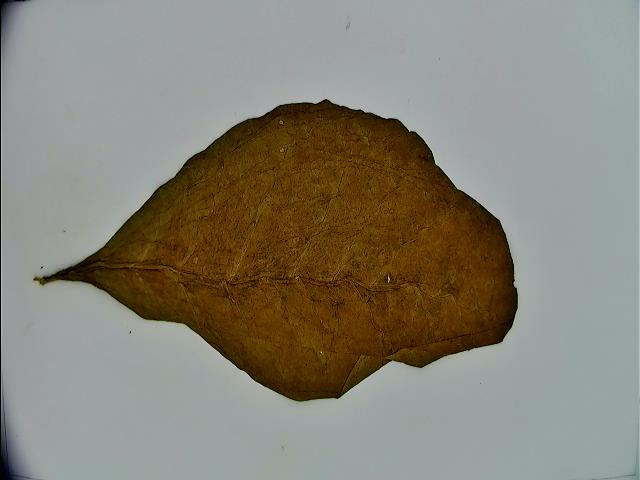
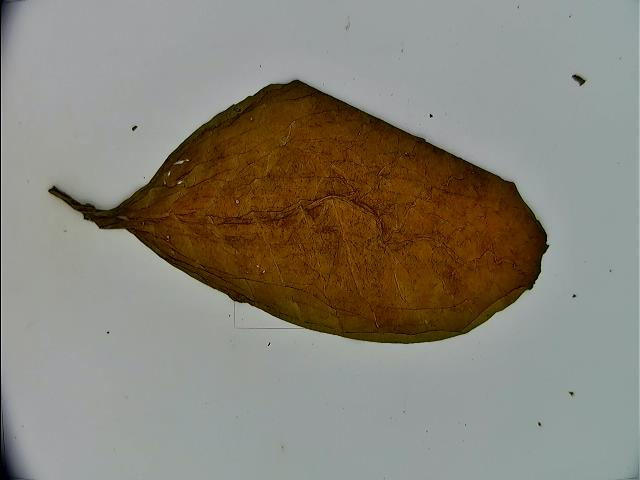
Feat: Minyak

diff --git a/main.py b/main.py
@@ -126,7 +126,7 @@ class WebcamApp:
             print("No image to save!")
 
 
-    def process_image(self, path, contrast_factor=1.0):
+    def process_image(self, path, contrast_factor=2.3):
         if os.path.exists(path):
             # Membaca gambar dari path yang diberikan menggunakan OpenCV
             image = cv2.imread(path)
@@ -136,19 +136,19 @@ class WebcamApp:
                 return
 
             # Simpan gambar asli
-            cv2.imwrite("Original_Image.png", image)
+            cv2.imwrite("1 Original_Image.png", image)
             print("Gambar berhasil dibaca dan disimpan sebagai 'Original_Image.png'.")
 
             # Penyesuaian kontras
             adjusted_image = self.adjust_contrast(image, contrast_factor)
             
             # Simpan hasil gambar dengan kontras yang disesuaikan
-            cv2.imwrite("Adjusted_Contrast_Image.png", adjusted_image)
+            cv2.imwrite("2 Adjusted_Contrast_Image.png", adjusted_image)
             print("Gambar dengan kontras disesuaikan disimpan sebagai 'Adjusted_Contrast_Image.png'")
 
             # Konversi gambar dari BGR ke HSV
                  # Konversi gambar ke Grayscale
-            img_gray = cv2.cvtColor(image, cv2.COLOR_RGBA2GRAY)
+            img_gray = cv2.cvtColor(adjusted_image, cv2.COLOR_RGBA2GRAY)
 
             # Segmentasi Citra Menggunakan Thresholding
             _, thresh = cv2.threshold(img_gray, 128, 255, cv2.THRESH_BINARY_INV)
@@ -168,7 +168,7 @@ class WebcamApp:
                 kualitas = self.determine_leaf_quality(panjang)
 
                 # Deteksi kerusakan dan minyak 
-                cropped_image = image[y:y+h, x:x+w]
+                cropped_image = adjusted_image[y:y+h, x:x+w]
 
                 # Buat masker untuk citra yang dipotong
                 mask = np.zeros((h, w), dtype=np.uint8)
@@ -180,7 +180,7 @@ class WebcamApp:
                 cv2.drawContours(mask, [adjusted_contour], -1, 255, thickness=cv2.FILLED)
                 # Segmentasikan objek dengan masker
                 segmented_image = cv2.bitwise_and(cropped_image, cropped_image, mask=mask)
-                cv2.imwrite('2 Image Segmented.png', segmented_image)
+                cv2.imwrite('3 Image Segmented.png', segmented_image)
 
                 # Temukan kontur pada gambar masker
                 contours, _ = cv2.findContours(mask, cv2.RETR_EXTERNAL, cv2.CHAIN_APPROX_SIMPLE)
@@ -212,36 +212,36 @@ class WebcamApp:
                 result_with_inner_contour = cv2.bitwise_and(cropped_image, cropped_image, mask=inner_mask)
 
                 # Simpan hasil akhir dengan kontur di dalam kontur
-                cv2.imwrite('3 result_with_inner_contour.png', result_with_inner_contour)
+                cv2.imwrite('4 result_with_inner_contour.png', result_with_inner_contour)
 
                 if len(segmented_image.shape) == 3:
                     # Konversi citra berwarna (3 channel) menjadi grayscale
                     segmented_image_gray = cv2.cvtColor(segmented_image, cv2.COLOR_RGBA2GRAY)
-                    cv2.imwrite('4 segmented_image_gray.png', segmented_image_gray)
+                    cv2.imwrite('5 segmented_image_gray.png', segmented_image_gray)
                     # Menggunakan Gaussian Blur sebelum deteksi tepi
 
                     inner_segmented_gray = cv2.cvtColor(result_with_inner_contour, cv2.COLOR_RGBA2GRAY)
-                    cv2.imwrite('5 Inner_Segmented_Gray.png', inner_segmented_gray)
+                    cv2.imwrite('6 Inner_Segmented_Gray.png', inner_segmented_gray)
                     
                     # Tentukan rentang warna hitam (minyak)
                     lower_black = np.array([1], dtype=np.uint8)
-                    upper_black = np.array([32], dtype=np.uint8)
+                    upper_black = np.array([48], dtype=np.uint8)
 
                     # Buat mask untuk warna hitam
                     black_mask = cv2.inRange(inner_segmented_gray, lower_black, upper_black)
                     
                     # Deteksi tepi dengan Canny untuk menemukan tulang daun
                     edges = cv2.Canny(inner_segmented_gray, 50, 150)
-                    cv2.imwrite('6 edges.png', edges)
+                    cv2.imwrite('7 edges.png', edges)
 
                     # Dilatasi untuk mempertebal tepi tulang daun
                     kernel = np.ones((1, 3), np.uint8)
                     dilated_edges = cv2.dilate(edges, kernel, iterations=1)
-                    cv2.imwrite('7 dilated_edges.png', dilated_edges)
+                    cv2.imwrite('8 dilated_edges.png', dilated_edges)
 
                     # Buat mask tulang daun
                     leaf_veins_mask = cv2.bitwise_not(dilated_edges)
-                    cv2.imwrite('8 leaf_veins_mask.png', leaf_veins_mask)
+                    cv2.imwrite('9 leaf_veins_mask.png', leaf_veins_mask)
 
                     # Terapkan leaf_veins_mask pada black_mask agar tulang daun tidak ikut terdeteksi sebagai minyak
                     filtered_black_mask = cv2.bitwise_and(black_mask, black_mask, mask=leaf_veins_mask)
@@ -250,7 +250,7 @@ class WebcamApp:
                     # Ganti piksel hitam (minyak) dengan warna kuning pada gambar BGR
                     filtered_black_mask_bgr = cv2.cvtColor(filtered_black_mask, cv2.COLOR_GRAY2BGR)
                     filtered_black_mask_bgr[np.where((filtered_black_mask_bgr == [255, 255, 255]).all(axis=2))] = [0, 255, 255]
-                    cv2.imwrite('9 filtered_blackMaskBgr.png', filtered_black_mask_bgr)
+                    cv2.imwrite('10 filtered_blackMaskBgr.png', filtered_black_mask_bgr)
 
                     print("Jumlah piksel hitam setelah filter tulang daun:", black_pixels_filtered)
 
@@ -278,6 +278,24 @@ class WebcamApp:
         # Mengonversi gambar ke format float32 agar tidak terjadi overflow
         adjusted = cv2.convertScaleAbs(image, alpha=factor, beta=0)
         return adjusted
+    
+    def adjust_hsv(self, image, hsv_values):
+        # Convert image from BGR to HSV
+        hsv_image = cv2.cvtColor(image, cv2.COLOR_BGR2HSV)
+
+        # Split into separate channels for H, S, and V
+        h, s, v = cv2.split(hsv_image)
+
+        # Scale the H, S, and V channels
+        h = cv2.multiply(h, hsv_values[0])
+        s = cv2.multiply(s, hsv_values[1])
+        v = cv2.multiply(v, hsv_values[2])
+
+        # Merge channels back and convert to BGR
+        hsv_image = cv2.merge([h, s, v])
+        hsv_adjusted_image = cv2.cvtColor(hsv_image, cv2.COLOR_HSV2BGR)
+        
+        return hsv_adjusted_image
 
     def send_hue_and_color_category(self, oil, color_category):
         data = f"{oil},{color_category}\n"
